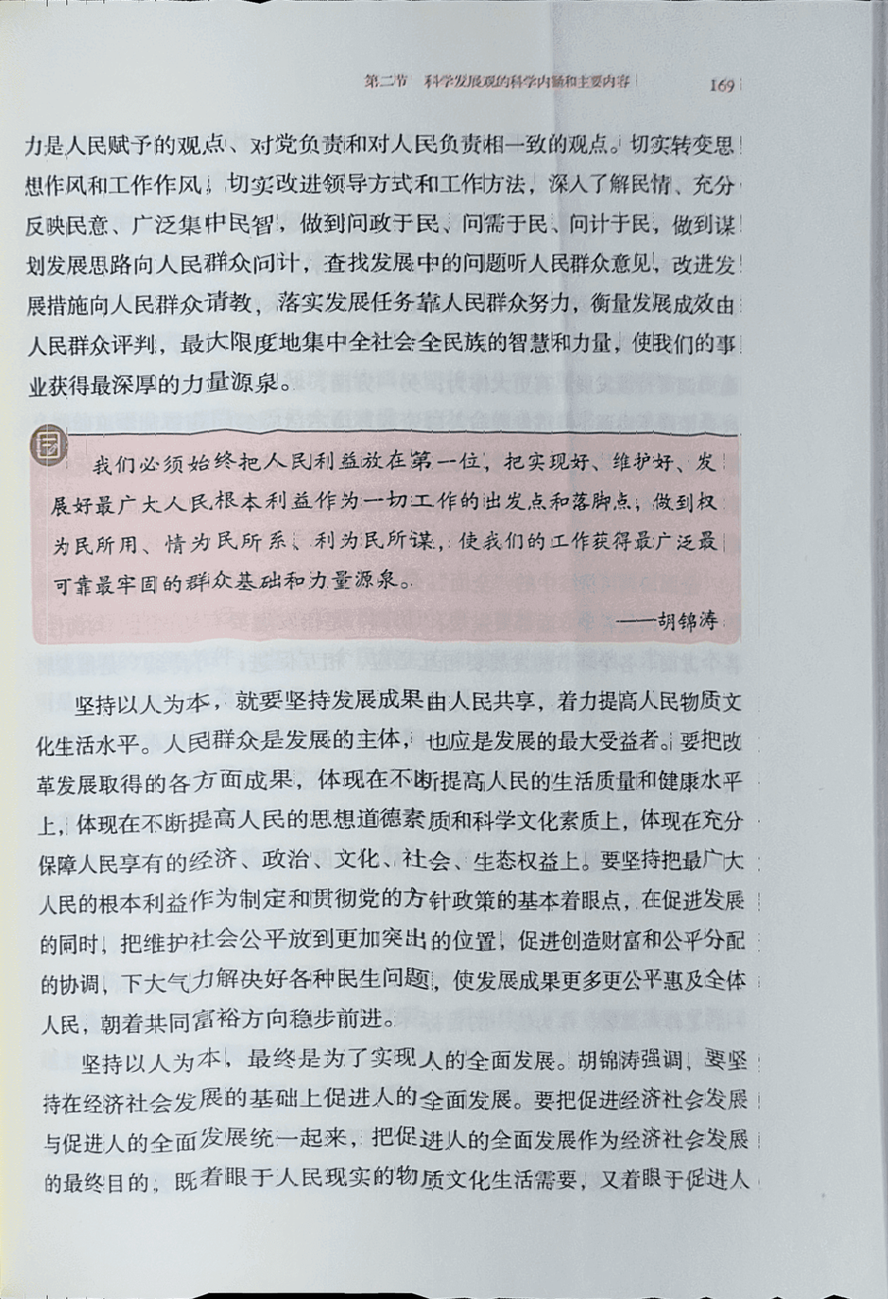
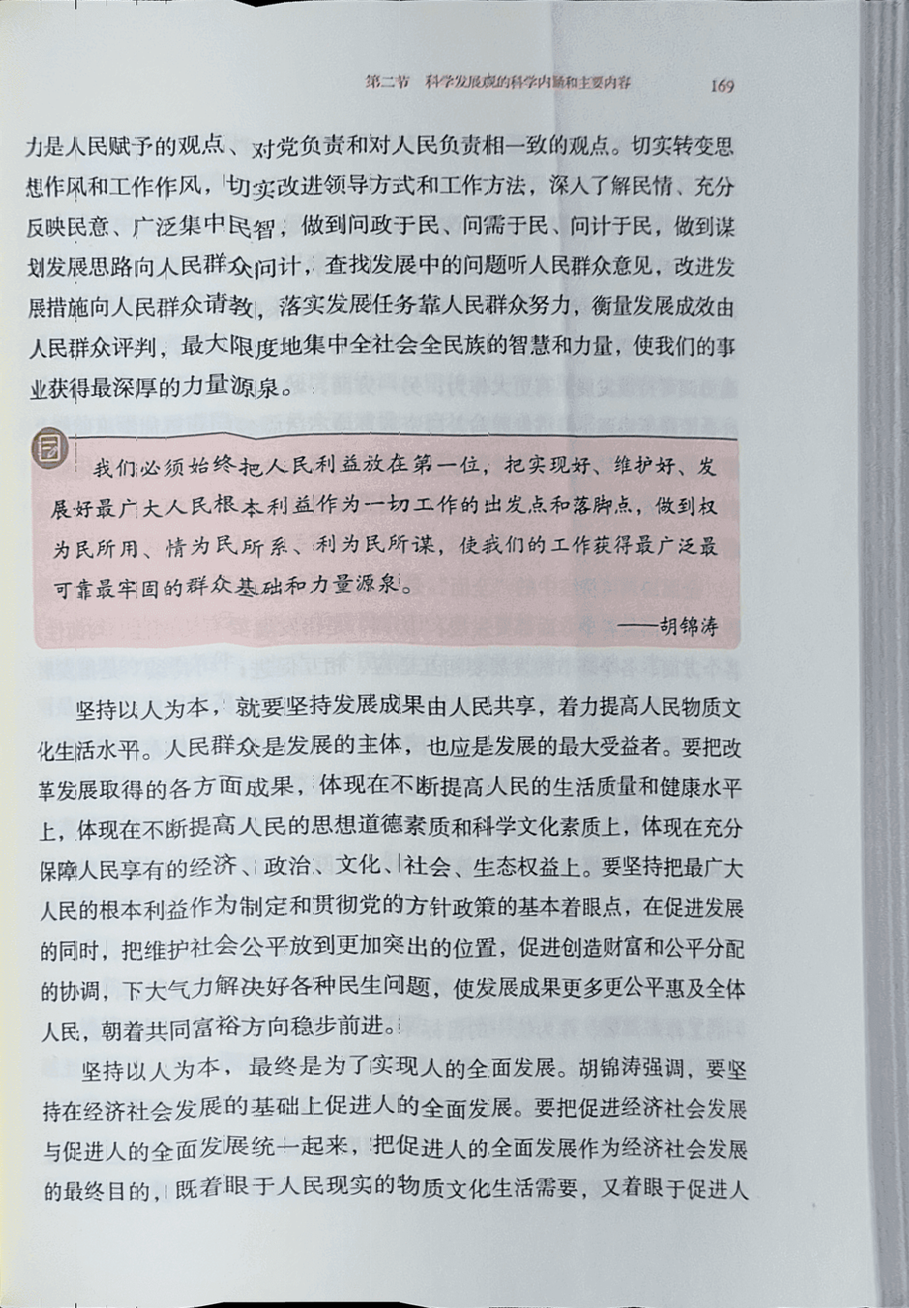
在pic_pre_process.py中添加了文本自动纠正水平的函数

diff --git a/text_classificate/pic_pre_process.py b/text_classificate/pic_pre_process.py
@@ -3,7 +3,9 @@ import os
 import matplotlib.pyplot as plt
 import numpy as np
 from PIL import Image
-from math import atan2, degrees, sqrt
+from math import atan, atan2, degrees, sqrt
+import pytesseract
+from pytesseract import Output
 from sklearn.cluster import DBSCAN
 from scipy.interpolate import CubicSpline
 from dataset_get.pic_to_text_by_OCR import get_pic_text
@@ -417,7 +419,7 @@ def horizontal_warp_image(img, src_points):
 
 
 # 书页在垂直方向上展开
-def vertical_warp_image(img, num_cells=50, k=1.3):
+def vertical_warp_image(img, num_cells=30, k=1.3):
     # ========== 图像预处理 ==========
     # 预处理强化文字对比度
     gray = cv2.cvtColor(img, cv2.COLOR_BGR2GRAY)
@@ -683,31 +685,90 @@ def book_page_rectifier(img_path):
 
     vertical_img = vertical_warp_image(horizontal_img)
 
+    # # ==================================================== 可视化调试 ====================================================
     # show_image(horizontal_img)
     # show_image(vertical_img)
 
     return vertical_img
 
+# ===============================================文字方向矫正===============================================
+def rotate_text_image(img_path, max_angle=10):
+    img = cv2.imread(img_path)
+    # 1. 灰度化 + 高斯降噪
+    gray = cv2.cvtColor(img, cv2.COLOR_BGR2GRAY)
+    blurred = cv2.GaussianBlur(gray, (7, 7), 0)
+
+    # 2. 自适应阈值分割
+    thresh = cv2.adaptiveThreshold(blurred, 255, 
+                                cv2.ADAPTIVE_THRESH_GAUSSIAN_C,
+                                cv2.THRESH_BINARY_INV, 21, 10)
+
+    # show_image(thresh)
+
+    # 3. 形态学操作（连接字符间隙+去除孤立噪声）
+    kernel = np.ones((3, 3), np.uint8)
+    cleaned = cv2.morphologyEx(thresh, cv2.MORPH_OPEN, kernel, iterations=1)
+    cleaned = cv2.dilate(cleaned, kernel, iterations=5)
+
+    # show_image(cleaned)
+
+    # 霍夫直线检测
+    lines = cv2.HoughLinesP(cleaned, 1, np.pi / 180, 200, minLineLength=200, maxLineGap=3)
+    if lines is None:
+        return img
+    
+    # # ==================================================== 可视化调试 ====================================================
+    # debug_img = img.copy()
+    # for line in lines:
+    #     x1, y1, x2, y2 = line[0]
+    #     cv2.line(debug_img, (x1, y1), (x2, y2), (0, 0, 255), 2)
+    # show_image(debug_img)
+
+    # 4. 计算所有直线的角度
+    angles = []
+    for line in lines:
+        x1, y1, x2, y2 = line[0]
+        angle = degrees(atan2(y2 - y1, x2 - x1))
+        if angle > -max_angle and angle < max_angle and angle != 0:
+            angles.append(angle)
+
+    # 5. 计算最终角度
+    if not angles:
+        return img
+    angle = np.mean(angles)
+
+    print(f"文字方向矫正角度：{angle}")
+
+    # 6. 旋转图像
+    center = (img.shape[1] // 2, img.shape[0] // 2)
+    M = cv2.getRotationMatrix2D(center, angle, 1.0)
+    rotated = cv2.warpAffine(img, M, (img.shape[1], img.shape[0]), flags=cv2.INTER_CUBIC, borderMode=cv2.BORDER_WRAP)
+
+    return rotated
+
 
 if __name__ == "__main__":
     for i in range(1, 4):
-        origin_path = f'./text_classificate/content/images/{i}.png'
-        # 旋转校正
-        rotated = correct_book_rotation(origin_path)
-        cv2.imwrite(f"./text_classificate/content/images/{i}_rotated.png", rotated)
+        # origin_path = f'./text_classificate/content/images/{i}.png'
+        # # 旋转校正
+        # rotated = correct_book_rotation(origin_path)
+        # cv2.imwrite(f"./text_classificate/content/images/{i}_rotated.png", rotated)
 
-        # 分页处理
-        left_page, right_page = find_book_corners_and_split(f"./text_classificate/content/images/{i}_rotated.png")
-        cv2.imwrite(f"./text_classificate/content/images/{i}_left_page.png", left_page)
-        cv2.imwrite(f"./text_classificate/content/images/{i}_right_page.png", right_page)
+        # # 分页处理
+        # left_page, right_page = find_book_corners_and_split(f"./text_classificate/content/images/{i}_rotated.png")
+        # cv2.imwrite(f"./text_classificate/content/images/{i}_left_page.png", left_page)
+        # cv2.imwrite(f"./text_classificate/content/images/{i}_right_page.png", right_page)
 
-        # 书页矫正
-        corrected_left = book_page_rectifier(f"./text_classificate/content/images/{i}_left_page.png")
-        corrected_right = book_page_rectifier(f"./text_classificate/content/images/{i}_right_page.png")
-        cv2.imwrite(f"./text_classificate/content/images/{i}_corrected_left.png", corrected_left)
-        cv2.imwrite(f"./text_classificate/content/images/{i}_corrected_right.png", corrected_right)
+        # # 书页矫正
+        # corrected_left = book_page_rectifier(f"./text_classificate/content/images/{i}_left_page.png")
+        # corrected_right = book_page_rectifier(f"./text_classificate/content/images/{i}_right_page.png")
+        # cv2.imwrite(f"./text_classificate/content/images/{i}_corrected_left.png", corrected_left)
+        # cv2.imwrite(f"./text_classificate/content/images/{i}_corrected_right.png", corrected_right)
 
-
+        text_corrected_left = rotate_text_image(f"./text_classificate/content/images/{i}_corrected_left.png")
+        text_corrected_right = rotate_text_image(f"./text_classificate/content/images/{i}_corrected_right.png")
+        cv2.imwrite(f"./text_classificate/content/images/{i}_text_corrected_left.png", text_corrected_left)
+        cv2.imwrite(f"./text_classificate/content/images/{i}_text_corrected_right.png", text_corrected_right)
 
         # # 识别文字
         # left_text = get_pic_text(f"./text_classificate/content/images/{i}_corrected_left.png")
